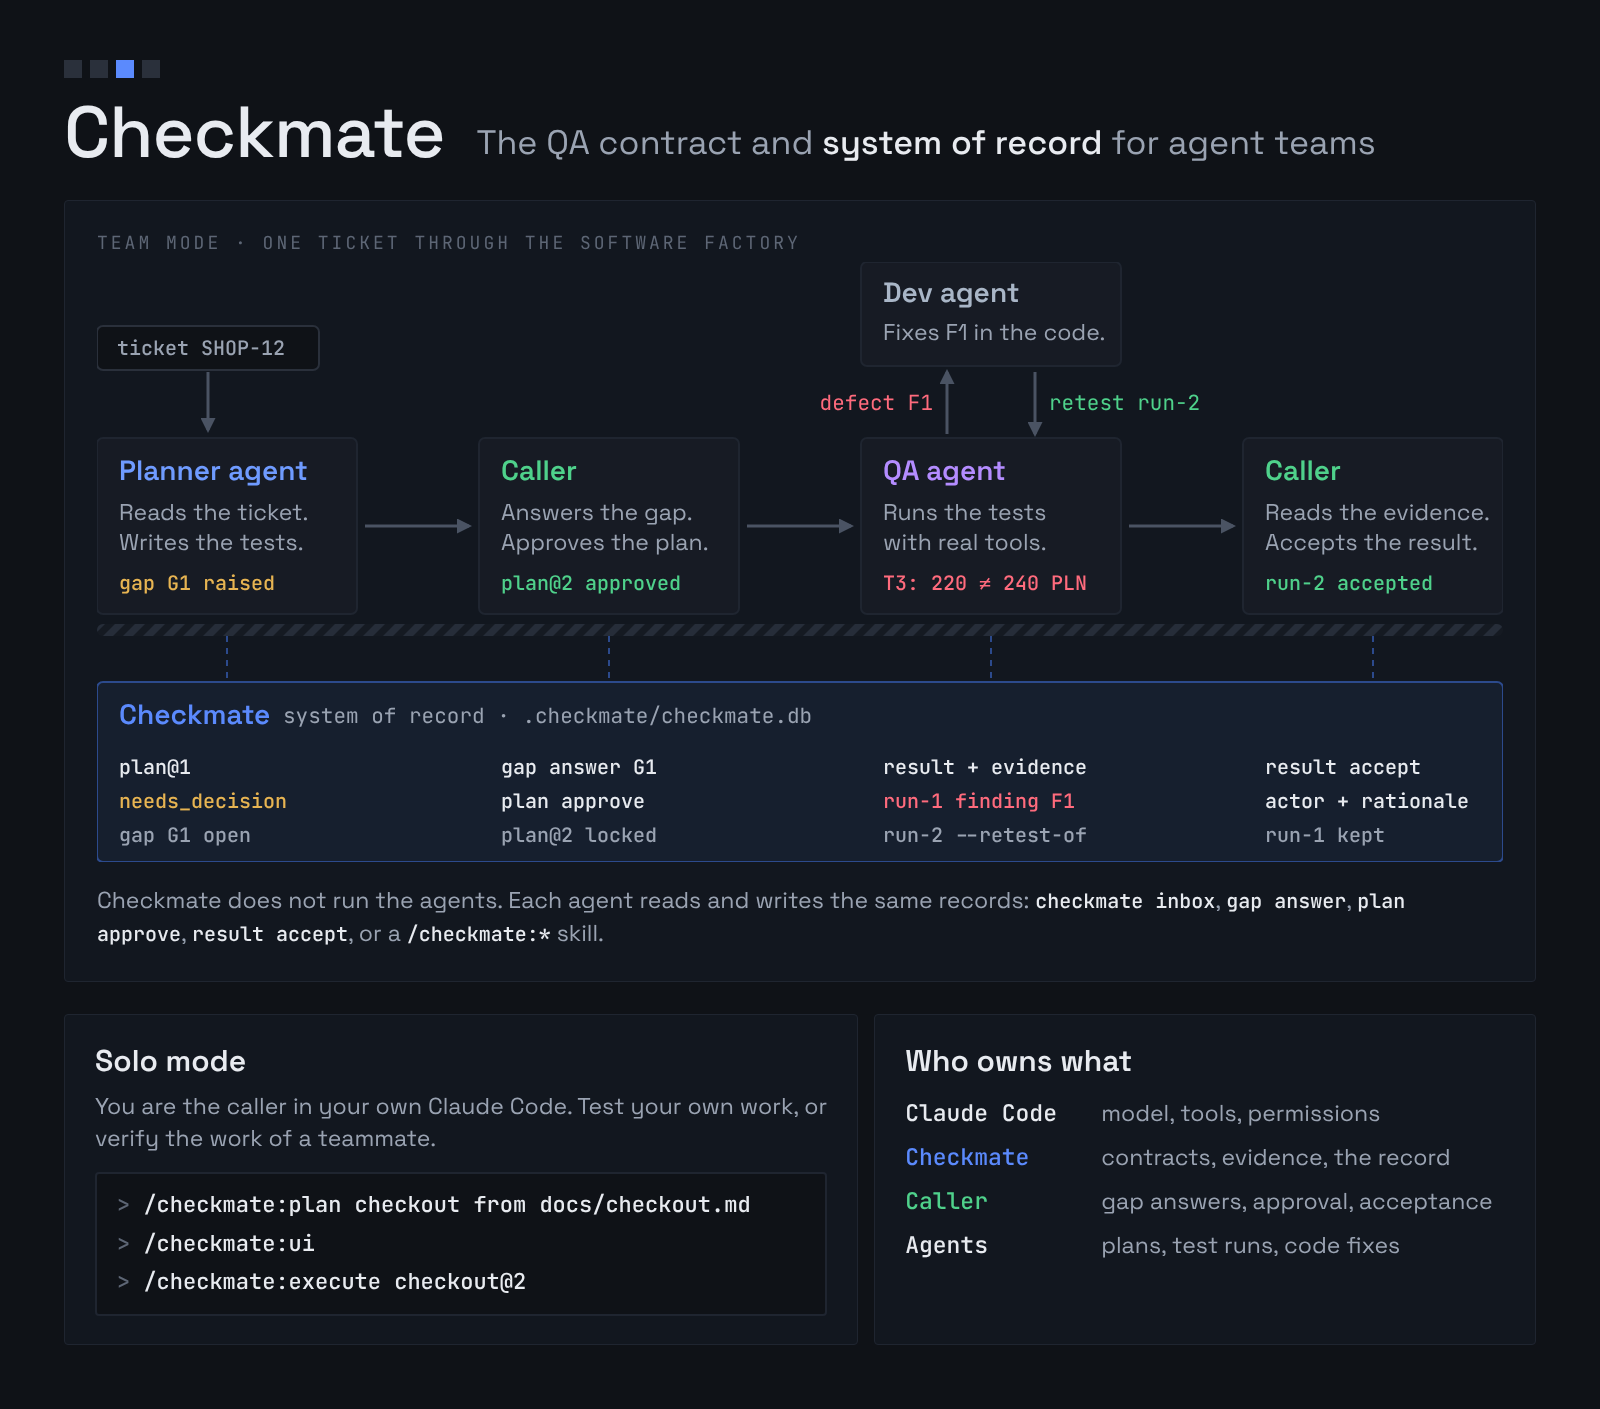
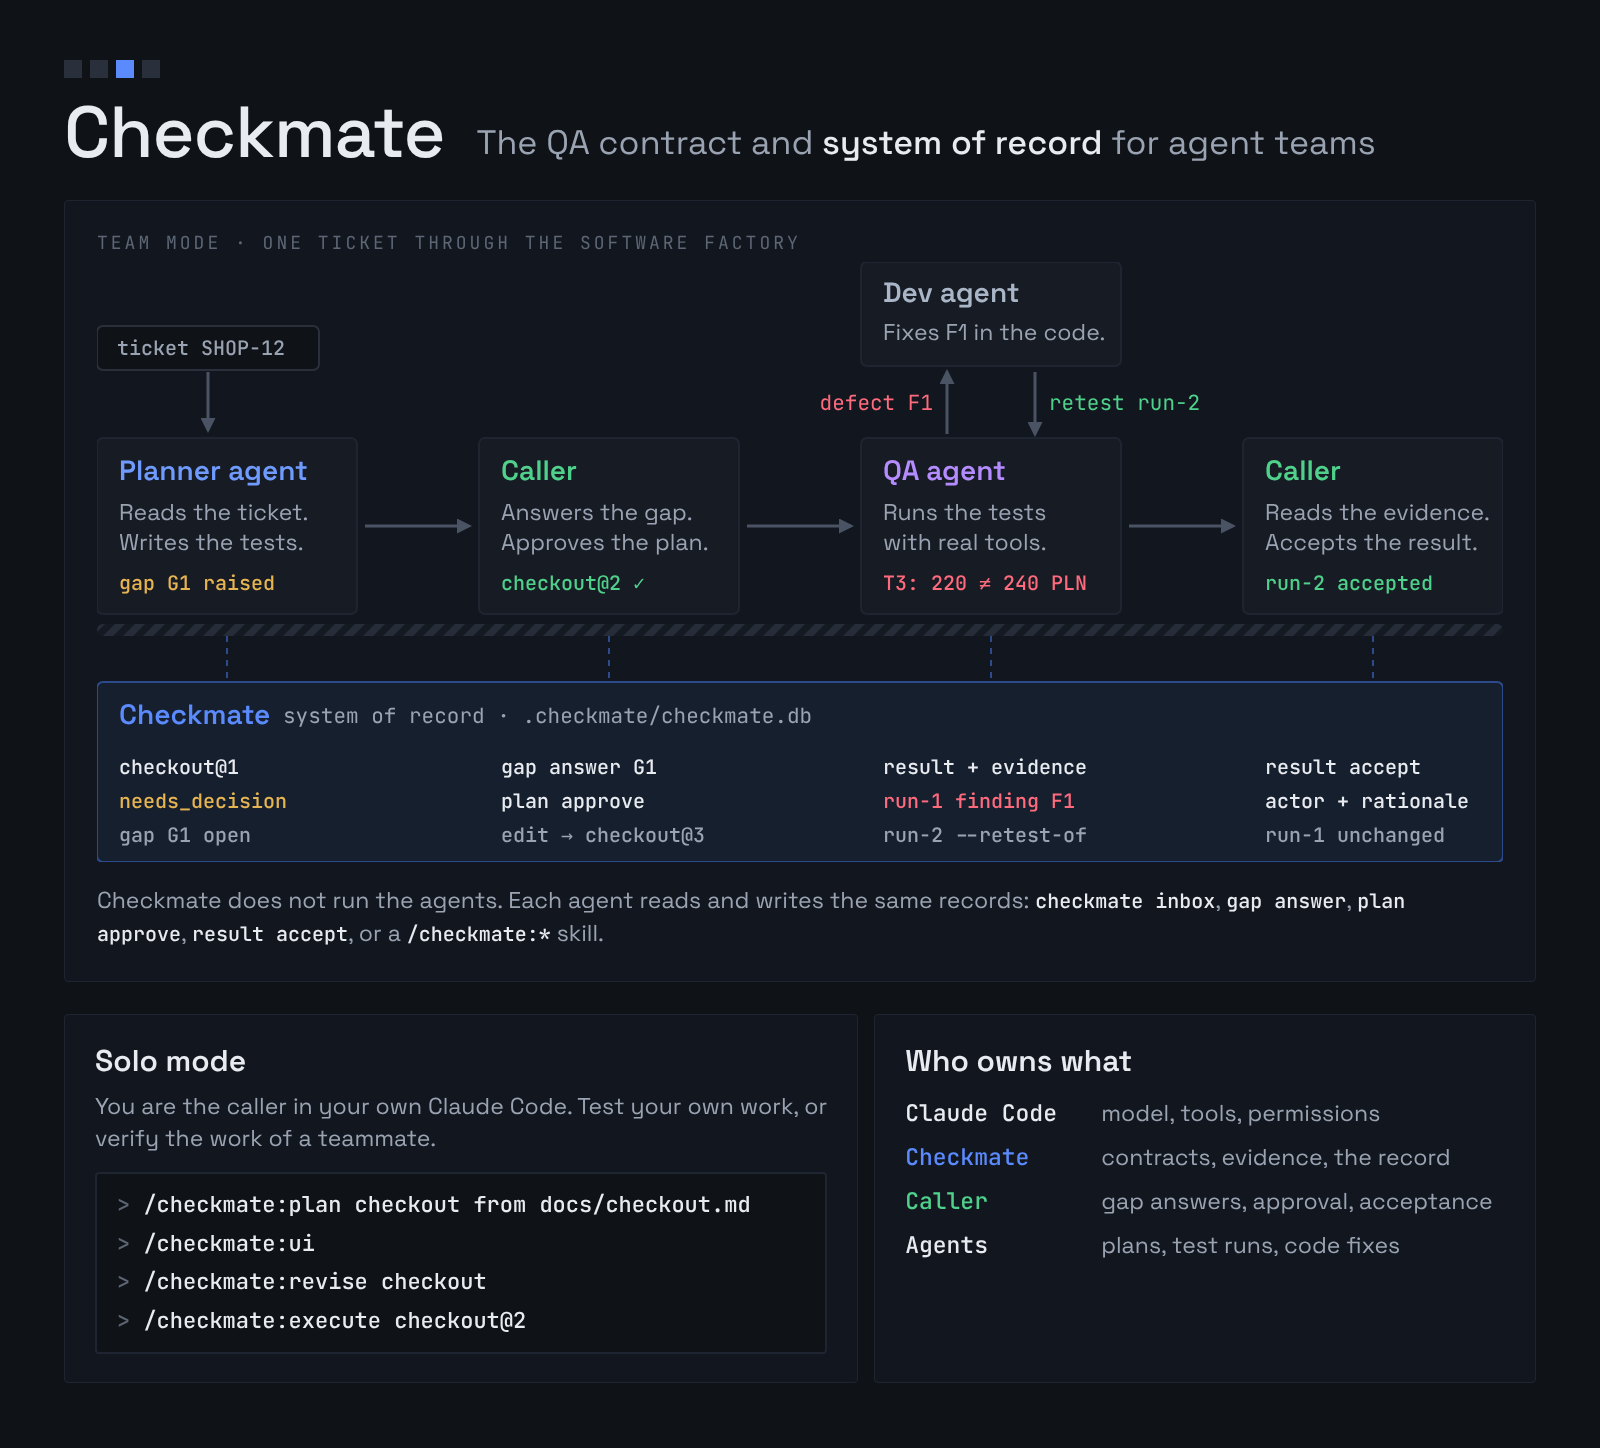
Polish the software factory media and solo path
Use checkout@N plan IDs and drop the invented term 'locked' in the
infographic. Align the record rows with the ledger header, keep the
ticket token on the canvas, and show the revise step in solo mode.

Claude-Session: https://claude.ai/code/session_01HgM7N6e8wyFWRWjtad7HpP

diff --git a/docs/media/onboarding.html b/docs/media/onboarding.html
@@ -34,7 +34,7 @@
 	.markrow i { width: 11px; height: 11px; border: 2px solid var(--ink); display: block; }
 	.markrow i.on { background: var(--ink); }
 
-	.rows { position: absolute; left: 30px; top: 196px; width: 556px; }
+	.rows { position: absolute; left: 46px; top: 196px; width: 548px; }
 	.row { display: flex; align-items: center; gap: 12px; height: 44px; font: 500 20px var(--mono); white-space: nowrap; }
 	.row.bad { background: var(--fail-soft); margin: 0 -8px; padding: 0 8px; border-radius: 6px; }
 	.note { font: 400 20px var(--body); padding-left: 2px; }
@@ -50,10 +50,10 @@
 
 	.stamp { position: absolute; left: 50%; top: 300px; transform: translateX(-50%); background: var(--accent); color: #fff; font: 600 21px/30px var(--display); padding: 8px 20px; border-radius: 9px; white-space: nowrap; }
 
-	.term { position: absolute; left: 28px; top: 82px; width: 584px; padding: 14px 20px; background: var(--surface); border: 2px solid var(--line); border-radius: 10px; font: 500 19px/40px var(--mono); }
+	.term { position: absolute; left: 28px; top: 82px; width: 584px; padding: 12px 20px; background: var(--surface); border: 2px solid var(--line); border-radius: 10px; font: 500 19px/36px var(--mono); }
 	.term .p { color: var(--muted); }
-	.solo-note { position: absolute; left: 28px; top: 250px; width: 584px; font: 400 20px/30px var(--body); color: var(--muted); }
-	.brand { position: absolute; left: 0; right: 0; top: 330px; display: flex; justify-content: center; align-items: center; gap: 14px; font: 600 30px var(--display); }
+	.solo-note { position: absolute; left: 28px; top: 264px; width: 584px; font: 400 20px/30px var(--body); color: var(--muted); }
+	.brand { position: absolute; left: 0; right: 0; top: 340px; display: flex; justify-content: center; align-items: center; gap: 14px; font: 600 30px var(--display); }
 	.brand .markrow { gap: 6px; }
 	.brand .markrow i { width: 22px; height: 22px; border-width: 3px; }
 </style>
@@ -74,7 +74,7 @@
 <section class="scene" data-start="0" data-length="5">
 	<h1><b>1</b>Planner agent drafts the plan</h1>
 	<div class="station on" style="left: 28px; background: var(--planner)">Planner</div>
-	<div class="token" style="background: var(--ink)" data-in="0" data-out="0.9" data-path="-60 95" data-move="0 0.8">SHOP-12</div>
+	<div class="token" style="background: var(--ink)" data-in="0" data-out="0.9" data-path="95 95" data-move="0 0.8">SHOP-12</div>
 	<div class="rows">
 		<div class="row" data-in="0.9"><span class="who planner">planner</span>plan checkout@1 · 3 tests</div>
 		<div class="row" data-in="1.7"><span class="who planner">planner</span><span class="gap">needs_decision · gap G1</span></div>
@@ -136,10 +136,11 @@
 	<div class="term">
 		<div data-in="0.4"><span class="p">&gt;</span> /checkmate:plan checkout</div>
 		<div data-in="1.0"><span class="p">&gt;</span> /checkmate:ui</div>
-		<div data-in="1.6"><span class="p">&gt;</span> /checkmate:execute checkout@2</div>
+		<div data-in="1.6"><span class="p">&gt;</span> /checkmate:revise checkout</div>
+		<div data-in="2.0"><span class="p">&gt;</span> /checkmate:execute checkout@2</div>
 	</div>
-	<div class="solo-note" data-in="2.2">You are the caller.<br />Test your own work, or verify the work of a teammate.</div>
-	<div class="brand" data-in="3.0"><div class="markrow"><i></i><i></i><i class="on"></i><i></i></div>checkmate</div>
+	<div class="solo-note" data-in="2.6">You are the caller.<br />Test your own work, or verify the work of a teammate.</div>
+	<div class="brand" data-in="3.3"><div class="markrow"><i></i><i></i><i class="on"></i><i></i></div>checkmate</div>
 </section>
 
 </main>

diff --git a/docs/media/infographic.html b/docs/media/infographic.html
@@ -199,7 +199,7 @@
 				<text class="name" x="404" y="218" style="fill: var(--caller)">Caller</text>
 				<text class="what" x="404" y="258">Answers the gap.</text>
 				<text class="what" x="404" y="288">Approves the plan.</text>
-				<text class="code" x="404" y="328" style="fill: var(--green)">plan@2 approved</text>
+				<text class="code" x="404" y="328" style="fill: var(--green)">checkout@2 ✓</text>
 
 				<rect class="station" x="764" y="176" width="260" height="176" rx="6" />
 				<text class="name" x="786" y="218" style="fill: var(--qa)">QA agent</text>
@@ -233,18 +233,18 @@
 				<rect x="0" y="420" width="1406" height="180" rx="6" fill="#161f2e" stroke="#2c4a8c" stroke-width="2" />
 				<text class="name" x="22" y="462" style="fill: var(--blue)">Checkmate</text>
 				<text class="small" x="186" y="461">system of record · .checkmate/checkmate.db</text>
-				<text class="code" x="22" y="512">plan@1</text>
+				<text class="code" x="22" y="512">checkout@1</text>
 				<text class="code" x="22" y="546" style="fill: var(--amber)">needs_decision</text>
 				<text class="code" x="22" y="580" style="fill: var(--muted)">gap G1 open</text>
 				<text class="code" x="404" y="512">gap answer G1</text>
 				<text class="code" x="404" y="546">plan approve</text>
-				<text class="code" x="404" y="580" style="fill: var(--muted)">plan@2 locked</text>
+				<text class="code" x="404" y="580" style="fill: var(--muted)">edit → checkout@3</text>
 				<text class="code" x="786" y="512">result + evidence</text>
 				<text class="code" x="786" y="546" style="fill: var(--red)">run-1 finding F1</text>
 				<text class="code" x="786" y="580" style="fill: var(--muted)">run-2 --retest-of</text>
 				<text class="code" x="1168" y="512">result accept</text>
 				<text class="code" x="1168" y="546">actor + rationale</text>
-				<text class="code" x="1168" y="580" style="fill: var(--muted)">run-1 kept</text>
+				<text class="code" x="1168" y="580" style="fill: var(--muted)">run-1 unchanged</text>
 			</svg>
 			<div class="caption">
 				Checkmate does not run the agents. Each agent reads and writes the same records:
@@ -260,6 +260,7 @@
 				<div class="term">
 					<div><span>&gt;</span> /checkmate:plan checkout from docs/checkout.md</div>
 					<div><span>&gt;</span> /checkmate:ui</div>
+					<div><span>&gt;</span> /checkmate:revise checkout</div>
 					<div><span>&gt;</span> /checkmate:execute checkout@2</div>
 				</div>
 			</div>

diff --git a/README.md b/README.md
@@ -75,7 +75,7 @@ Each command prints `<status> <subject>` on line 1. `needs_decision` exits with 
 
 ## Solo mode: your Claude Code
 
-Use the plugin when you work alone. You are the caller. Drive the tests for your own change, or verify the work of a teammate, for example as a QA.
+Use the plugin when you work alone. You are the caller. Drive the tests for your own change, or verify the work of a teammate, for example as the QA engineer.
 
 You need the plugin, Node.js 24.12.0 or later, and the tools that your tests use. For browser tests, install Playwright CLI: `npm i -g @playwright/cli`. You do not need the npm CLI.
 
